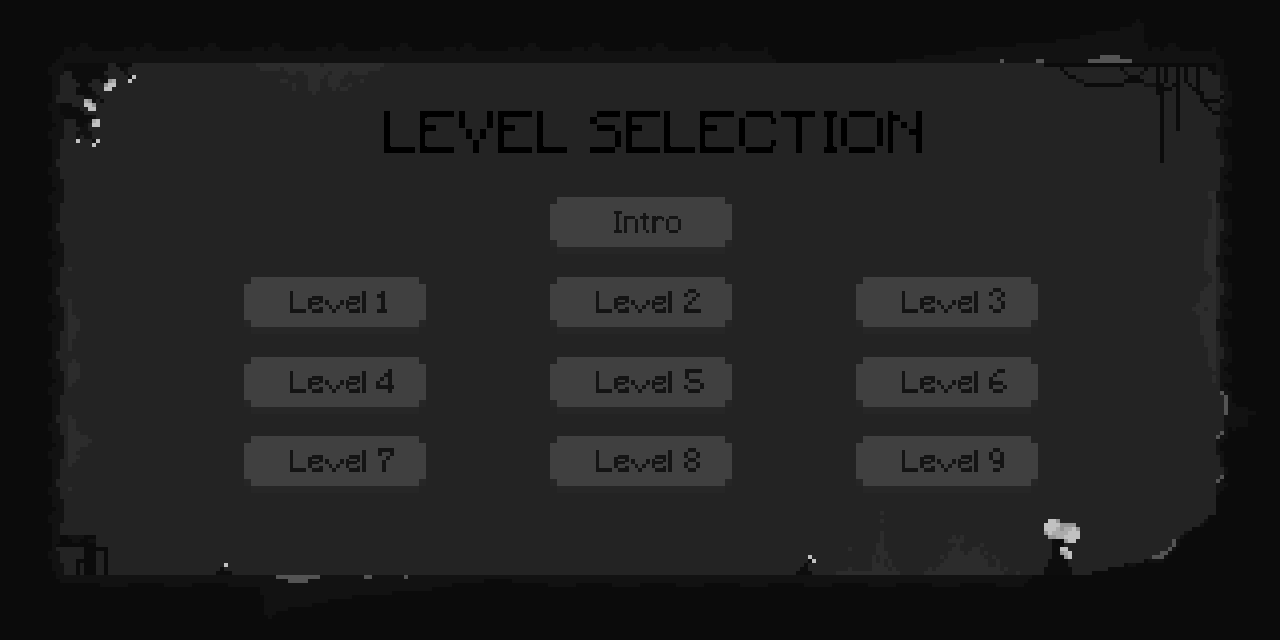
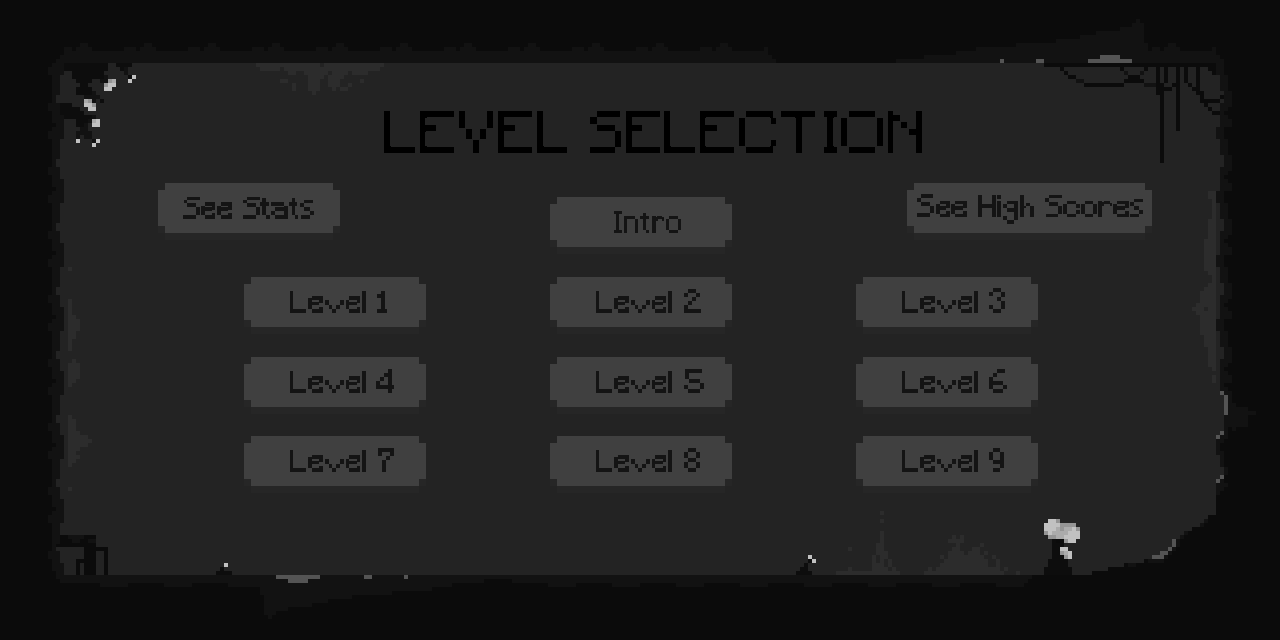
High Score Screen

Changed region(s): [[0.6875, 0.2812, 0.9062, 0.375], [0.125, 0.2812, 0.2812, 0.375]]

diff --git a/Python_Platformer.py b/Python_Platformer.py
@@ -44,6 +44,8 @@ def MoveToNextLevel(CurrentLevelNum, PlayerLivesAndAbilities, MaxLevelReached):
 Name = DisplayNameScreen(screen)
 MaxLevelReached,PlayerInfo,PlayerID = LoadLevelsReached(Name)
 
+DisplayHighScoreScreen(MaxLevelReached, PlayerID, PlayerInfo, screen)
+
 # Create Menus (only needs to be created once each time the program is loaded)
 TitleScreen = CreateTitleScreen(screen)
 LevelSelectionScreen = CreateLevelSelectionScreen(screen)
@@ -79,14 +81,14 @@ while StartedGame == False:
 while True:
 
     # --- Level selection screen ---
-
+    
     # Give this its own routine so that when user 'returns' back to level selection screen, their max level reached (and hence the buttons available to them) have updated
     CreateButtonsForLevelSelectionScreen(int(MaxLevelReached), LevelSelectionScreen)
 
     while CurrentLevelNum == -1:
         for event in pygame.event.get():
             if event.type==pygame.QUIT:
-                SaveScores(MaxLevelReached, PlayerID)
+                SaveScores(MaxLevelReached, PlayerID, PlayerInfo)
                 sys.exit()
             elif event.type==pygame.MOUSEBUTTONDOWN:
                 LevelSelectionScreen.MouseDown = True
@@ -96,9 +98,14 @@ while True:
 
         for button in LevelSelectionScreen.Buttons:
             for Num in range(len(LevelSelectionScreen.Buttons)):
-                if button.Name == ('Level ' + str(Num)) and button.Clicked:
-                    CurrentLevelNum = Num
-                    break
+                if button.Clicked:
+                    if button.Name == ('Level ' + str(Num)):
+                        CurrentLevelNum = Num
+                        break
+                    elif button.Name == 'See Stats':
+                        DisplayStatsScreen(MaxLevelReached,PlayerID,PlayerInfo,screen)
+                    elif button.Name == 'See High Score':
+                        DisplayHighScoreScreen(MaxLevelReached,PlayerID,PlayerInfo,screen)
 
         pygame.display.update()
         Clock.tick(60)

diff --git a/Menu.py b/Menu.py
@@ -37,12 +37,12 @@ def CreateButtonsForLevelSelectionScreen(MaxLevelReached, LevelSelectionScreen):
     for button in LevelSelectionScreen.Buttons:
         button.kill()
 
-    ButtonsToMake = [['Level 0',550,197],['Level 1',244,277],['Level 2',550,277],['Level 3',856,277],['Level 4',244,357],['Level 5',550,357],['Level 6',856,357],['Level 7',244,436],['Level 8',550,436],['Level 9',856,436]]
+    ButtonsToMake = [['Level 0',550,197],['Level 1',244,277],['Level 2',550,277],['Level 3',856,277],['Level 4',244,357],['Level 5',550,357],['Level 6',856,357],['Level 7',244,436],['Level 8',550,436],['Level 9',856,436],['See Stats',158,183],['See High Scores',907,183],]
 
     # Loop through each button and set it to the 'off' image if the user is unable to press it 
     Counter = 0
     for Button in ButtonsToMake:
-        if Counter > MaxLevelReached:
+        if Counter > MaxLevelReached and Counter <= 9:
             Button[0] += " Off"
         Counter += 1
     
